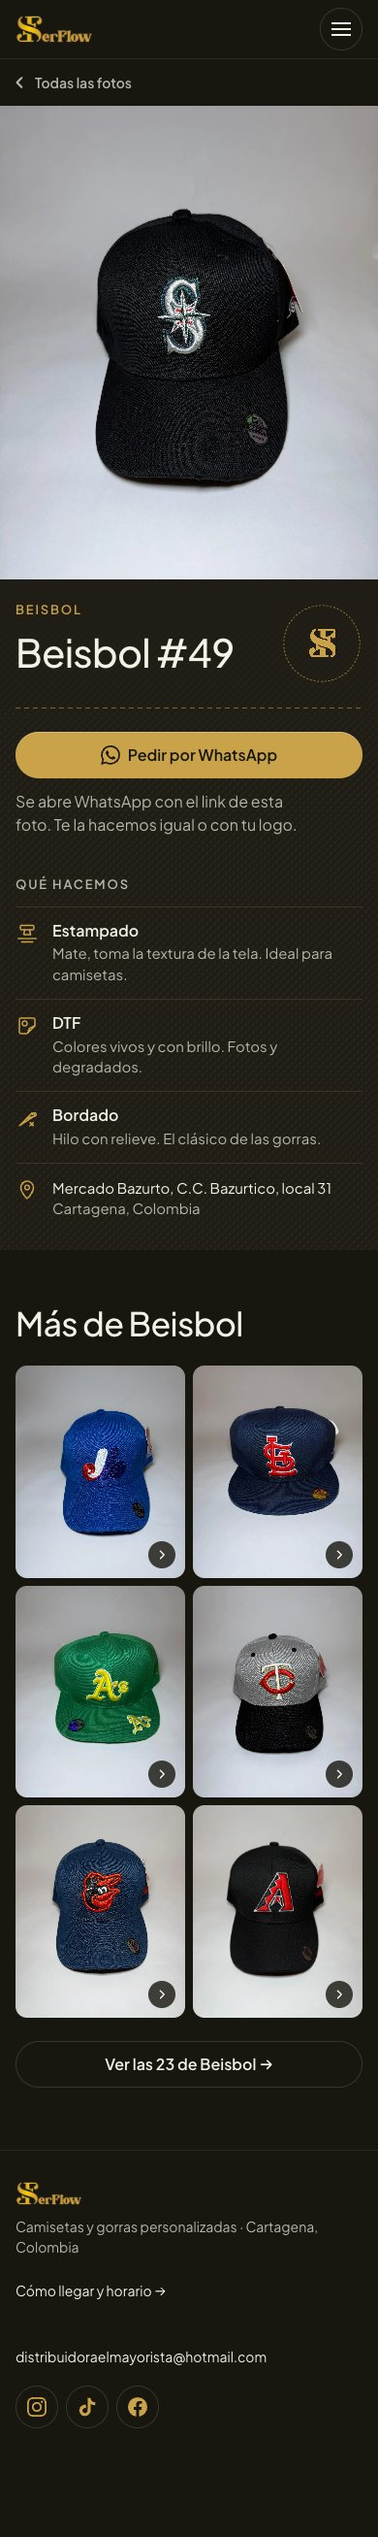
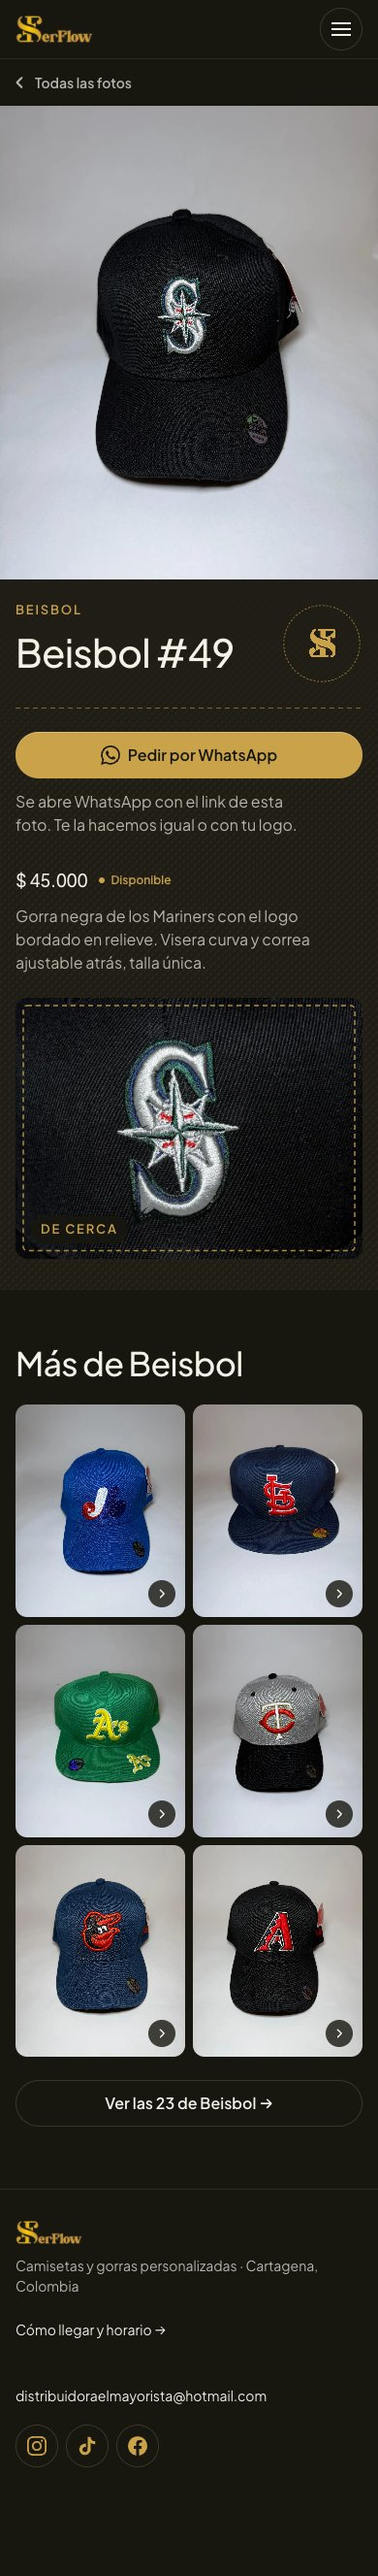
docs: PRI-286 final viewer panel is product-only: drop What we do and the workshop address; price in COP, Disponible and description when present, and a stitched close-up of the product photo that grows to fill the panel when they are missing; no-data frames at 390 and 1280

diff --git a/tempo/designs/canvases/portada-final/Visores.tsx b/tempo/designs/canvases/portada-final/Visores.tsx
@@ -1,30 +1,73 @@
-import { useId, type ReactNode } from "react";
+import { useId } from "react";
 import "./portada.css";
 import "./pantallas.css";
 import "./visores.css";
 import { Button } from "../../../../src/components/ui/Button";
 import { Masonry } from "../../../../src/components/ui/Masonry";
 import { PhotoCarousel } from "../../../../src/components/ui/PhotoCarousel";
-import { ADDRESS, CITY, WHATSAPP_URL } from "../../../../src/lib/business";
+import { StatusPill } from "../../../../src/components/ui/StatusPill";
+import { CITY, WHATSAPP_URL } from "../../../../src/lib/business";
 import { LOGO } from "../../design-system/app-shell/portada";
 import { Marco } from "../refresh-oro-viejo/comun";
 import { Cabecera } from "./Portada";
 import { CATEGORIAS } from "./Pantallas";
 
 /*
- * PRI-286 · visor de producto, versión final (Said, 2026-11-02: eligió C, Textura de taller, y pidió llenar el hueco
- * entre el título y el sello con las técnicas de B; "Más de" abajo, en su rejilla).
+ * PRI-286 · visor de producto, versión final (Said, 2026-11-02: eligió C, Textura de taller; "Más de" abajo, en su
+ * rejilla). Ronda 2 (Said): fuera "Qué hacemos" y la dirección del taller (ya están en la portada); el centro del panel
+ * es solo DEL PRODUCTO.
  * Escritorio: foto 4:5 en 6 columnas y el panel en las otras 6, con el mismo borde de arriba y de abajo que la foto; el
- * panel reparte su alto entre nombre y sello, Qué hacemos, la costura y Pedir por WhatsApp, con el mismo aire entre ellos.
- * Celular: foto a sangre, nombre y sello, costura y Pedir arriba (el botón a la vista sin bajar), y Qué hacemos debajo.
- * Una sola foto (hoy 0 de 92 productos tienen más): el visor es este mismo frame, sin miniaturas.
- * Todo el texto sale de master: la categoría, el nombre, "Pedir por WhatsApp" y su nota, las técnicas de "Qué hacemos"
- * (HomePage.tsx) y la dirección y ciudad de business.ts. El logo es src/assets/LOGO SERFLOW.png (solo su monograma).
+ * panel reparte su alto entre nombre y sello, los datos (precio, Disponible, descripción), De cerca, la costura y Pedir,
+ * con el mismo aire entre ellos. De cerca toma el alto que sobra: sin descripción ni precio, crece hasta llenarlo.
+ * Celular: foto a sangre, nombre y sello, costura y Pedir arriba (el botón a la vista sin bajar, como en C final); los
+ * datos (precio y Disponible, descripción) y De cerca debajo.
+ * Datos (products de Supabase, 2026-11-02): de los 92 activos, ninguno tiene description, price ni stock > 0, y ninguno
+ * tiene más de una foto. El frame principal usa datos de EJEMPLO para mostrar el caso lleno; "sin datos" es el de hoy.
+ * Reglas para construir: cada dato solo si existe (description no vacía, price !== null, stock > 0); price en COP con
+ * Intl.NumberFormat("es-CO", COP, sin decimales); stock > 0 = StatusPill accent "Disponible" (accent = disponible en labels), nunca el número.
+ * De cerca: con image_urls[1], esa foto entera (cover); con una sola foto, la misma ampliada, centrada en el punto
+ * 50 % / 43 %, donde queda el logo bordado en las fotos del catálogo; el zoom sale del alto del marco (el logo ocupa
+ * ~65 % del alto) con un mínimo de 1,7 veces su ancho: el marco bajo no corta el logo y ninguno muestra el fondo.
+ * Todo el resto del texto sale de master: la categoría, el nombre, "Pedir por WhatsApp" y su nota, y la ciudad de
+ * business.ts en el sello. El logo es src/assets/LOGO SERFLOW.png (solo su monograma).
  */
 
 type W = 390 | 1280;
 
+type Datos = { description: string | null; price: number | null; stock: number };
+
+/** Ejemplo de un producto con los tres campos llenos (hoy ninguno los tiene en Supabase). */
+const EJEMPLO: Datos = {
+  description: "Gorra negra de los Mariners con el logo bordado en relieve. Visera curva y correa ajustable atrás, talla única.",
+  price: 45000,
+  stock: 3,
+};
+/** Como están hoy los 92 productos activos. */
+const VACIO: Datos = { description: null, price: null, stock: 0 };
+
 const p = { nombre: "Beisbol #49", cat: CATEGORIAS.beisbol, count: 23 };
+
+const cop = new Intl.NumberFormat("es-CO", { style: "currency", currency: "COP", maximumFractionDigits: 0 });
+
+/** Detalle del producto en un marco cosido: su segunda foto si la tiene; si no, la primera ampliada sobre el logo. */
+function DeCerca({ fotos }: { fotos: string[] }) {
+  const segunda = fotos[1];
+  return (
+    <figure className="vx-cerca" aria-hidden={segunda ? undefined : true}>
+      {segunda ? (
+        <img src={segunda} alt={`${p.nombre}, otra foto`} className="vx-cerca-otra" />
+      ) : (
+        <img src={fotos[0]} alt="" className="vx-cerca-zoom" />
+      )}
+      <svg className="vx-cerca-costura" aria-hidden="true">
+        <rect width="100%" height="100%" rx="4" />
+      </svg>
+      {!segunda && (
+        <figcaption className="pf-pie vx-cerca-pie">De cerca</figcaption>
+      )}
+    </figure>
+  );
+}
 
 /** El monograma S del logo real, como silueta del color que diga el CSS (mask del PNG, recortado a la S). */
 function Monograma({ className }: { className: string }) {
@@ -33,76 +76,6 @@ function Monograma({ className }: { className: string }) {
 
 /** Costura dorada horizontal que se cose una vez al cargar (la del "enlace que se cose"). */
 const Costura = () => <span aria-hidden="true" className="vx-costura" />;
-
-/* ---------- Íconos lineales de las técnicas (24, trazo 1.5, oro viejo) ---------- */
-
-const ICONOS: Record<string, ReactNode> = {
-  // Rasero sobre la malla y la tinta que deja.
-  Estampado: (
-    <>
-      <rect x="5" y="3.5" width="14" height="4.5" rx="1.5" />
-      <path d="M9.5 8 8.5 13h7l-1-5" />
-      <path d="M3 17h18" />
-      <path d="M6.5 20.5h11" />
-    </>
-  ),
-  // La lámina de transferencia con su diseño, despegándose por la esquina.
-  DTF: (
-    <>
-      <path d="M12 20H5.5A1.5 1.5 0 0 1 4 18.5v-13A1.5 1.5 0 0 1 5.5 4h13A1.5 1.5 0 0 1 20 5.5V12" />
-      <path d="M20 12l-5.5 2.5L12 20z" />
-      <circle cx="9.5" cy="9.5" r="2.5" />
-    </>
-  ),
-  // Aguja con su ojo y el hilo, y una puntada en cruz.
-  Bordado: (
-    <>
-      <path d="M4 20 16.4 7.2a2 2 0 0 1 2.8 2.8z" />
-      <path d="M17.3 8.3l.5-.5" />
-      <path d="M18.6 7.2c2.2-2 3.8 1.2 1.4 2.8-2.6 1.7-6 .3-8.4 3" />
-      <path d="M15 16.5l3.5 3.5M18.5 16.5 15 20" />
-    </>
-  ),
-};
-
-/** Las tres técnicas con su texto tal cual en "Qué hacemos" (src/components/home/HomePage.tsx). */
-const TECNICAS = [
-  { title: "Estampado", description: "Mate, toma la textura de la tela. Ideal para camisetas." },
-  { title: "DTF", description: "Colores vivos y con brillo. Fotos y degradados." },
-  { title: "Bordado", description: "Hilo con relieve. El clásico de las gorras." },
-];
-
-function Tecnicas() {
-  return (
-    <div className="vx-tec">
-      <p className="pf-pie vx-tec-titulo">Qué hacemos</p>
-      <ul className="vx-tec-lista">
-        {TECNICAS.map((t) => (
-          <li key={t.title}>
-            <svg viewBox="0 0 24 24" fill="none" stroke="currentColor" strokeWidth="1.5" strokeLinecap="round" strokeLinejoin="round" aria-hidden="true">
-              {ICONOS[t.title]}
-            </svg>
-            <div>
-              <p className="vx-tec-nombre">{t.title}</p>
-              <p>{t.description}</p>
-            </div>
-          </li>
-        ))}
-      </ul>
-      <p className="vx-taller">
-        <svg viewBox="0 0 24 24" fill="none" stroke="currentColor" strokeWidth="1.5" strokeLinecap="round" strokeLinejoin="round" aria-hidden="true">
-          <path d="M12 21s-6.5-6-6.5-11.5a6.5 6.5 0 0 1 13 0C18.5 15 12 21 12 21z" />
-          <circle cx="12" cy="9.5" r="2.3" />
-        </svg>
-        <span>
-          {ADDRESS}
-          <br />
-          <span className="text-muted">{CITY}</span>
-        </span>
-      </p>
-    </div>
-  );
-}
 
 /* ---------- Sello circular: aro, puntada y el monograma; alrededor, el nombre y la ciudad de business.ts ---------- */
 
@@ -125,8 +98,10 @@ function Sello() {
   );
 }
 
-export function VisorFinal({ width }: { width: W }) {
+export function VisorFinal({ width, datos = EJEMPLO }: { width: W; datos?: Datos }) {
   const desktop = width === 1280;
+  const { description, price, stock } = datos;
+  const precio = price !== null || stock > 0;
   const [foto, ...resto] = p.cat.tiles;
   const href = `/products/${p.cat.slug}`;
   return (
@@ -155,7 +130,18 @@ export function VisorFinal({ width }: { width: W }) {
                 </div>
                 <Sello />
               </div>
-              <Tecnicas />
+              {(precio || description) && (
+                <div className="vx-datos">
+                  {precio && (
+                    <p className="vx-precio">
+                      {price !== null && <span className="vx-valor">{cop.format(price)}</span>}
+                      {stock > 0 && <StatusPill tone="accent">Disponible</StatusPill>}
+                    </p>
+                  )}
+                  {description && <p className="vx-desc">{description}</p>}
+                </div>
+              )}
+              <DeCerca fotos={[foto.img.src]} />
               <Costura />
               <div className="vx-pedir">
                 <div className="vx-boton">
@@ -184,3 +170,5 @@ export function VisorFinal({ width }: { width: W }) {
 
 export const VisorFinalMobile = () => <VisorFinal width={390} />;
 export const VisorFinalDesktop = () => <VisorFinal width={1280} />;
+export const VisorFinalSinDatosMobile = () => <VisorFinal width={390} datos={VACIO} />;
+export const VisorFinalSinDatosDesktop = () => <VisorFinal width={1280} datos={VACIO} />;

diff --git a/tempo/designs/canvases/portada-final/visores.css b/tempo/designs/canvases/portada-final/visores.css
@@ -1,15 +1,17 @@
 /*
  * PRI-286 · visor final, Textura de taller (Visores.tsx). Va después de portada.css y pantallas.css y usa sus variables.
  * En escritorio la foto 4:5 en 6 columnas y el panel en las otras 6 como caja (surface, borde line, radio tile) del mismo
- * alto que la foto; adentro, nombre y sello, Qué hacemos, la costura y Pedir, repartidos con el mismo aire. En el celular
+ * alto que la foto; adentro, nombre y sello, los datos, De cerca, la costura y Pedir, repartidos con el mismo aire. En el celular
  * la foto a sangre y el panel en el margen. Oro viejo solo como acento. Nada se mueve en bucle: la costura se cose una
  * vez al cargar y con reducir movimiento sale ya cosida.
  */
 
-/* Celular: nombre y sello, costura y Pedir (el botón a la vista sin bajar); Qué hacemos después, como cierre del panel. */
+/* Celular: nombre y sello, costura y Pedir (el botón a la vista sin bajar, donde estaba en C final); los datos (precio y
+   Disponible, descripción) y De cerca después, como cierre del panel. */
 .vx-panel { position: relative; isolation: isolate; overflow: hidden; display: flex; flex-direction: column; gap: var(--pf-tc); padding: var(--pf-tc) var(--pf-m) 32px; background: var(--color-surface); }
 .vx-arriba { display: flex; align-items: flex-start; justify-content: space-between; gap: 16px; }
-.vx-tec { order: 1; margin-top: 16px; }
+.vx-datos { order: 1; display: flex; flex-direction: column; gap: var(--pf-td); margin-top: 8px; }
+.vx-cerca { order: 2; }
 .vx-pedir { display: flex; flex-direction: column; }
 .pf .vx-nota { margin-top: 12px; }
 .vx-boton { flex: none; }
@@ -18,16 +20,16 @@
   .vx { display: grid; grid-template-columns: repeat(12, minmax(0, 1fr)); column-gap: var(--pf-g); padding-inline: var(--pf-m); }
   .vx-foto { grid-column: 1 / span 6; }
   .pf .vx-foto ul { border-radius: var(--radius-tile); }
-  /* El panel se estira al alto de la foto (735): mismo borde arriba y abajo. Entre los cuatro bloques, siempre el mismo
-     aire (32); lo que sobra lo toman las filas de Qué hacemos, por partes iguales, así no queda ningún hueco suelto.
-     Con un nombre de dos líneas (Mi Tierra Querida #12) las filas vuelven a su mínimo y el panel sigue cerrando con la foto. */
+  /* El panel se estira al alto de la foto (735): mismo borde arriba y abajo. Entre los bloques, siempre el mismo aire
+     (32); lo que sobra lo toma De cerca, así no queda ningún hueco suelto. Sin descripción ni precio, De cerca crece
+     hasta donde estaban; con un nombre de dos líneas (Mi Tierra Querida #12) se encoge hasta su mínimo (200). */
   .vx-panel {
     grid-column: 7 / -1; align-self: stretch;
     padding: var(--pf-m); border: 1px solid var(--color-line); border-radius: var(--radius-tile);
   }
   .vx-arriba { align-items: center; }
   .pf .vx-panel .pf-visor-cat { margin-top: -12px; }
-  .vx-tec { order: 0; margin-top: 0; flex: 1 0 auto; display: flex; flex-direction: column; }
+  .vx-datos, .vx-cerca { order: 0; margin-top: 0; }
   .vx-pedir { flex-direction: row; align-items: center; gap: 20px; }
   .pf .vx-nota { margin-top: 0; max-width: 30ch; text-wrap: pretty; }
 }
@@ -74,23 +76,25 @@
   .vx-sello-puntada { r: 34px; }
 }
 
-/* ---------- Qué hacemos: los 3 íconos de las técnicas con su texto y el taller con su pin ---------- */
+/* ---------- Datos del producto: precio en COP y Disponible en una fila; la descripción debajo ---------- */
 
-.pf .vx-tec-titulo { color: var(--color-muted); }
-.vx-tec-lista { margin-top: 12px; }
-.vx-tec-lista li { display: grid; grid-template-columns: 24px minmax(0, 1fr); column-gap: 14px; padding-block: 14px; border-top: 1px solid var(--color-line); }
-.vx-tec-lista svg { width: 24px; height: 24px; color: var(--color-accent); margin-top: 1px; }
-.vx-tec-nombre { font-size: var(--pf-body); font-weight: 600; line-height: 1.3; }
-.vx-tec-lista li p:not(.vx-tec-nombre) { margin-top: 2px; font-size: 15px; line-height: 1.45; color: var(--color-muted); }
-.vx-taller { display: flex; gap: 14px; padding-top: 14px; border-top: 1px solid var(--color-line); font-size: 15px; line-height: 1.45; }
-.vx-taller svg { flex: none; width: 24px; height: 24px; color: var(--color-accent); margin-top: 1px; }
+.vx-precio { display: flex; flex-wrap: wrap; align-items: center; gap: 12px; }
+.pf .vx-valor { font-family: var(--font-display); font-size: var(--pf-h3); font-weight: 500; line-height: 1.2; font-variant-numeric: tabular-nums; }
+.pf .vx-desc { font-size: var(--pf-body); line-height: 1.5; color: var(--color-muted); max-width: 52ch; text-wrap: pretty; }
+
+/* ---------- De cerca: la foto del producto en un marco con la costura dorada por dentro ---------- */
+
+.vx-cerca { position: relative; overflow: hidden; container-type: size; aspect-ratio: 4 / 3; border-radius: var(--radius-tile); background: var(--color-surface-2); }
+/* Una sola foto: la misma ampliada, con el punto 50 % / 43 % (el logo) en el centro del marco y al 43 % de su alto. El
+   ancho de la foto es 3,3 veces el alto del marco (el logo, ~15 % del alto de la foto, queda en ~65 % del marco) y nunca
+   menos de 1,7 veces su ancho, así el marco bajo y ancho de escritorio también se llena de tela y no del fondo de la foto. */
+.vx-cerca-zoom { position: absolute; left: 50%; top: 43%; width: max(170cqw, 330cqh); max-width: none; height: auto; translate: -50% -43%; }
+.vx-cerca-otra { position: absolute; inset: 0; width: 100%; height: 100%; object-fit: cover; }
+.vx-cerca-costura { position: absolute; inset: 8px; width: calc(100% - 16px); height: calc(100% - 16px); overflow: visible; pointer-events: none; }
+.vx-cerca-costura rect { fill: none; stroke: color-mix(in srgb, var(--color-accent) 85%, transparent); stroke-width: 1.5; stroke-dasharray: 5 4; rx: calc(var(--radius-tile) - 8px); }
+.pf .vx-cerca-pie { position: absolute; left: 16px; bottom: 16px; padding: 4px 10px; border-radius: 999px; background: color-mix(in srgb, var(--color-primary) 85%, transparent); }
 @container pf (min-width: 48rem) {
-  /* Las mismas filas del celular, con más aire: el ícono a la izquierda como el pin del taller. */
-  .vx-tec-lista { margin-top: 16px; flex: 3 0 auto; display: flex; flex-direction: column; }
-  .vx-tec-lista li { flex: 1 0 auto; align-content: center; grid-template-columns: 28px minmax(0, 1fr); column-gap: 20px; padding-block: 12px; }
-  .vx-tec-lista svg { width: 28px; height: 28px; }
-  .vx-taller { flex: 1 0 auto; align-items: center; gap: 20px; padding-block: 12px 0; }
-  .vx-taller svg { margin-inline: 2px; }
+  .vx-cerca { flex: 1 1 0; min-height: 200px; aspect-ratio: auto; }
 }
 
 @media (prefers-reduced-motion: reduce) {

diff --git a/tempo/designs/canvases/portada-final/index.canvas.tsx b/tempo/designs/canvases/portada-final/index.canvas.tsx
@@ -15,7 +15,7 @@ import {
   PersonalizadorMobile,
   PersonalizadorDesktop,
 } from "./Pantallas";
-import { VisorFinalDesktop, VisorFinalMobile } from "./Visores";
+import { VisorFinalDesktop, VisorFinalMobile, VisorFinalSinDatosDesktop, VisorFinalSinDatosMobile } from "./Visores";
 
 /* PRI-286 · portada final, en 390 y 1280, con el sistema medido en heirest.com; a la derecha, el resto de las pantallas. */
 export default function PortadaFinalCanvas() {
@@ -28,9 +28,12 @@ export default function PortadaFinalCanvas() {
       <Storyboard id="CatalogoDesktop" name="Catálogo · Beisbol (23) · 1280" component={CatalogoDesktop} layout={{ x: 3700, y: 0 }} />
       <Storyboard id="Catalogo10Mobile" name="Catálogo · Basketball (10) · 390" component={Catalogo10Mobile} layout={{ x: 3210, y: 5000 }} />
       <Storyboard id="Catalogo10Desktop" name="Catálogo · Basketball (10) · 1280" component={Catalogo10Desktop} layout={{ x: 3700, y: 5000 }} />
-      {/* PRI-286 · visor final (Said, 2026-11-02): C, Textura de taller, con Qué hacemos llenando el panel. */}
+      {/* PRI-286 · visor final (Said, 2026-11-02): C, Textura de taller; el centro del panel es solo del producto (datos de ejemplo
+          arriba, como están hoy los 92 abajo: sin descripción ni precio, De cerca llena el panel). */}
       <Storyboard id="VisorFinalMobile" name="Visor · C final · 390" component={VisorFinalMobile} layout={{ x: 5080, y: 0 }} />
       <Storyboard id="VisorFinalDesktop" name="Visor · C final · 1280" component={VisorFinalDesktop} layout={{ x: 5570, y: 0 }} />
+      <Storyboard id="VisorFinalSinDatosMobile" name="Visor · C final · sin descripción ni precio · 390" component={VisorFinalSinDatosMobile} layout={{ x: 5080, y: 5000 }} />
+      <Storyboard id="VisorFinalSinDatosDesktop" name="Visor · C final · sin descripción ni precio · 1280" component={VisorFinalSinDatosDesktop} layout={{ x: 5570, y: 5000 }} />
       <Storyboard id="PromosMobile" name="Promos · lista · 390" component={PromosMobile} layout={{ x: 6950, y: 0 }} />
       <Storyboard id="PromosDesktop" name="Promos · lista · 1280" component={PromosDesktop} layout={{ x: 7440, y: 0 }} />
       <Storyboard id="PromoDetalleMobile" name="Promos · detalle · 390" component={PromoDetalleMobile} layout={{ x: 6950, y: 5000 }} />
